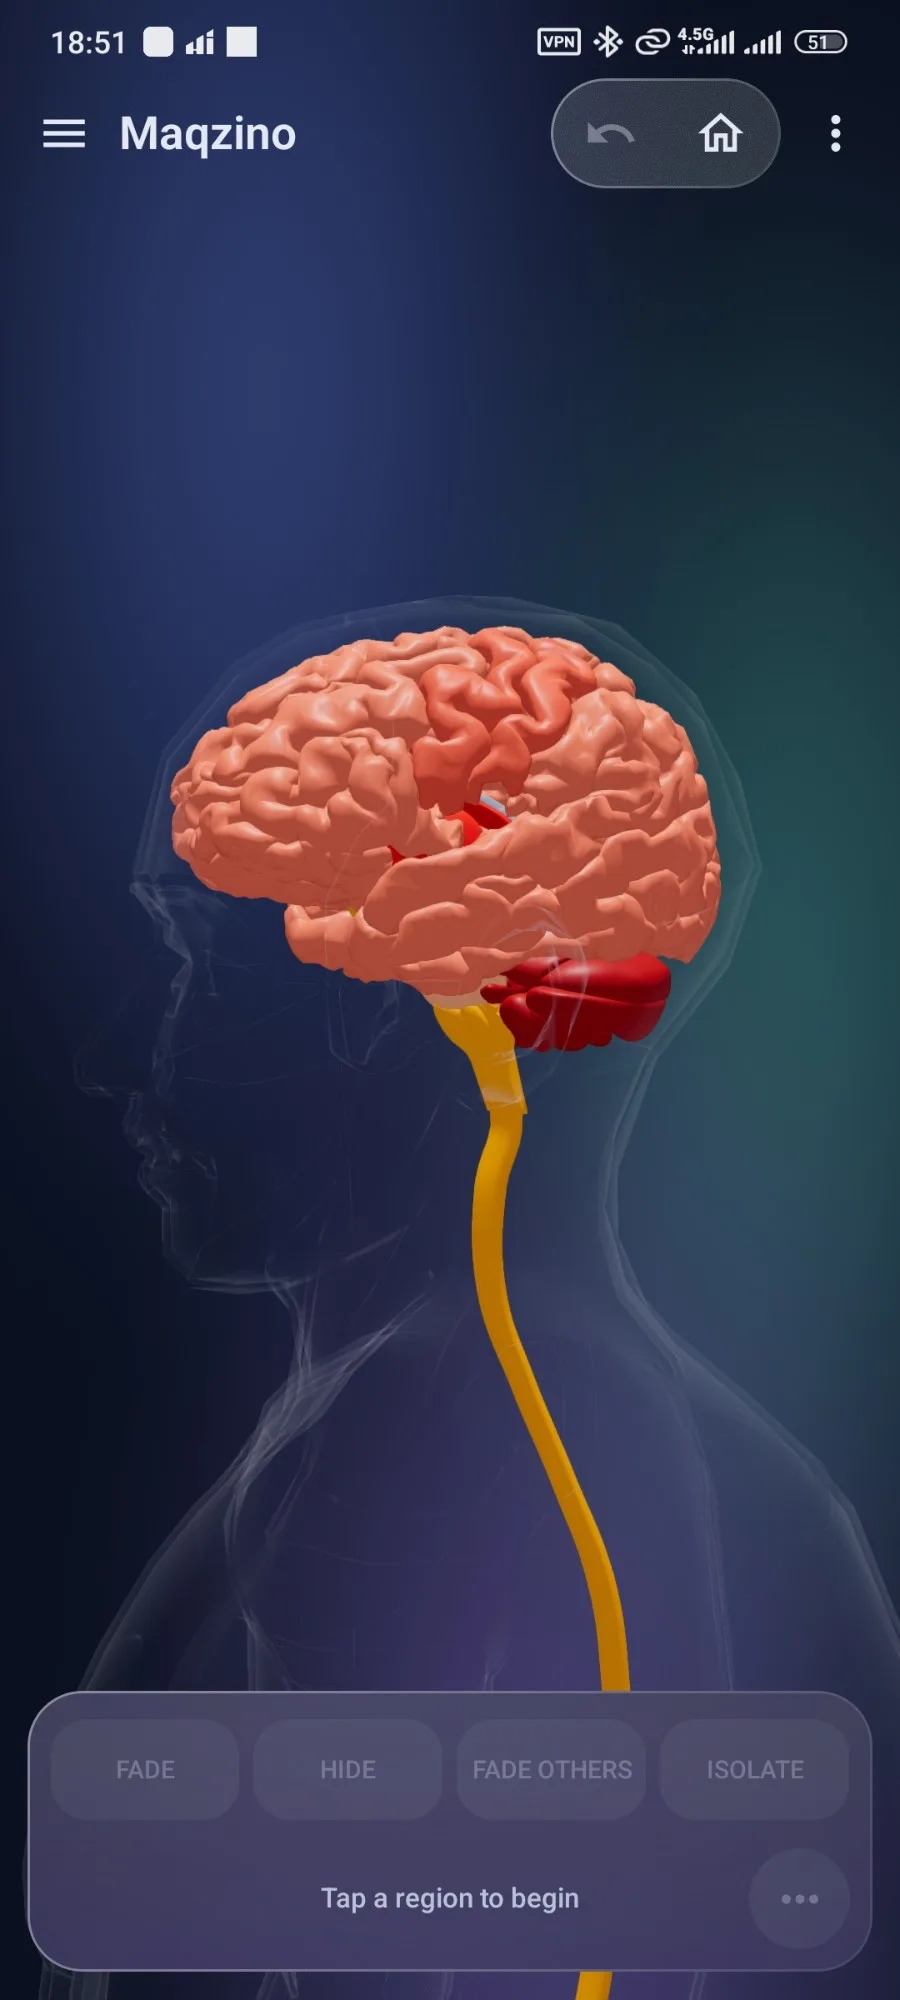
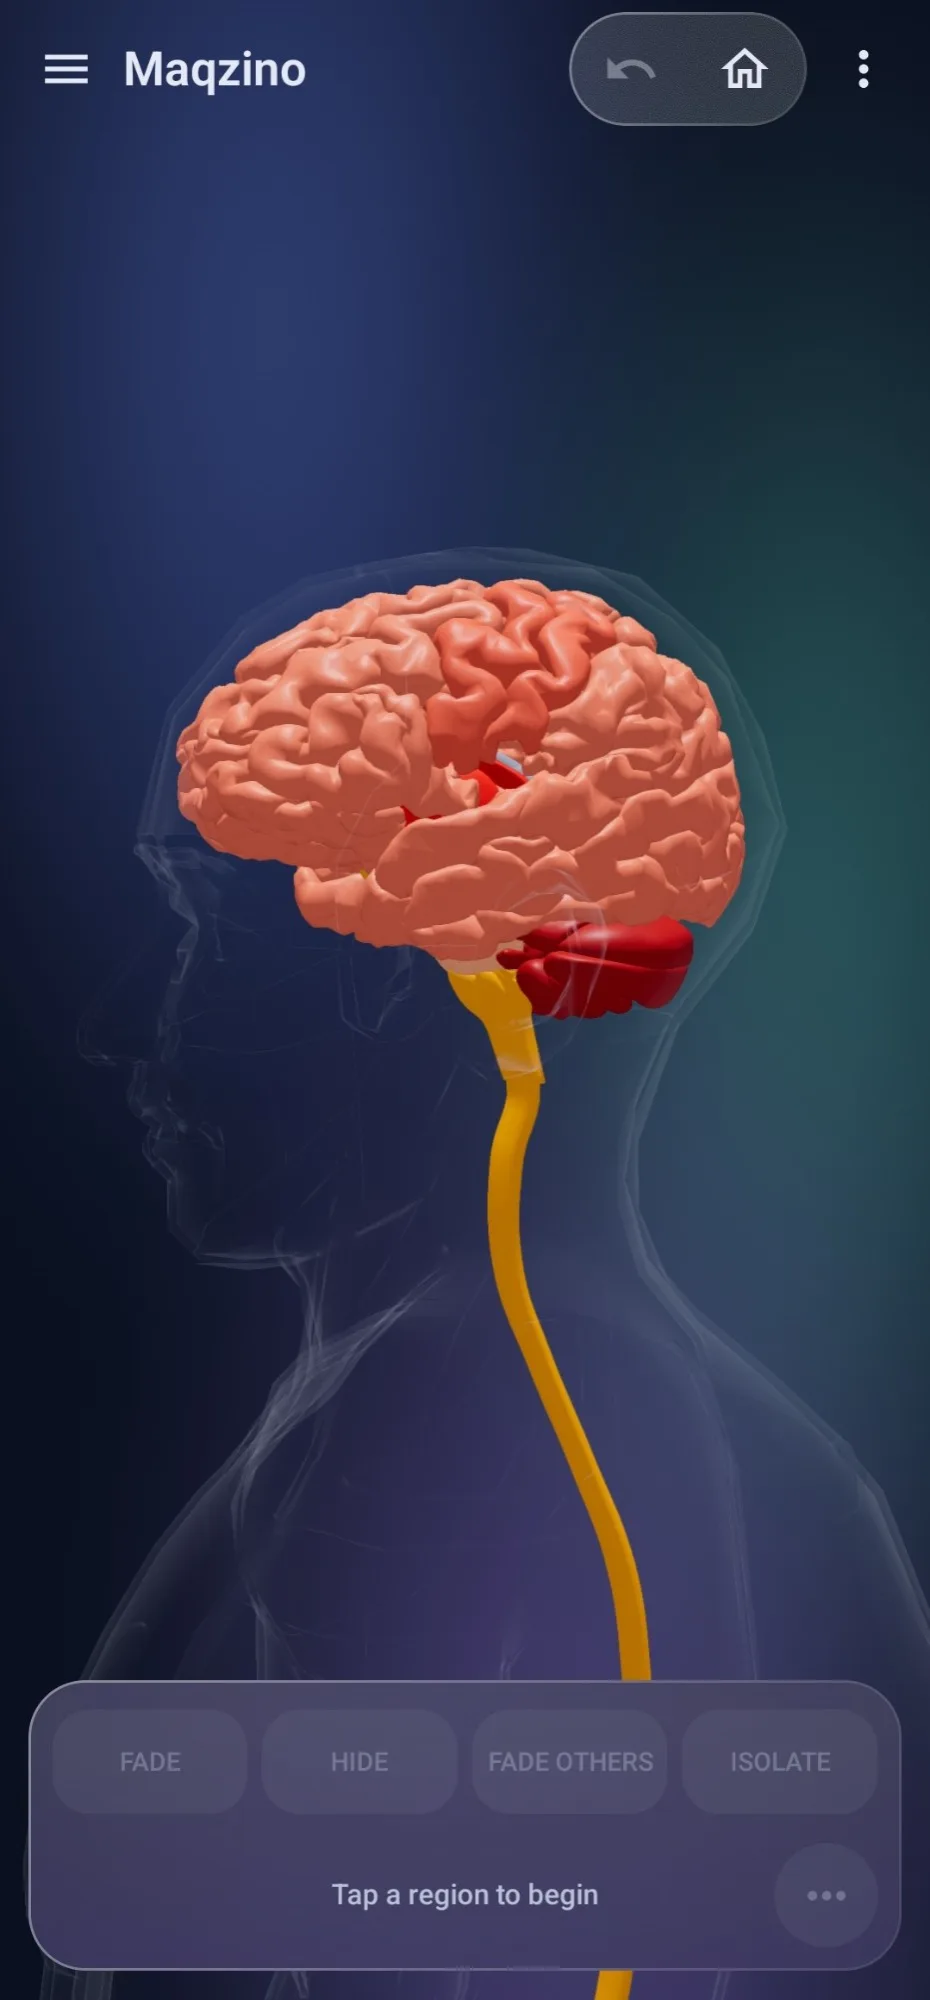
Replace the app screens with the status-bar-free crops
The old set carried the phone's own status bar — clock, VPN badge,
signal, battery — which showed through inside the mockup phone on the
home page and read as a screenshot of a screenshot.

The new files arrived in a different order from the gallery, so each one
was matched to the slot its caption already describes rather than to the
order it was sent. Their widths vary between 926 and 933 pixels from the
manual crop; all are normalised to 930 so the gallery and the phone frame
keep one ratio, which stretches the widest by 0.4 per cent. The frame's
aspect ratio follows to 93:200.

Ten screens, 691 KB.

diff --git a/components/Gallery.tsx b/components/Gallery.tsx
@@ -69,7 +69,7 @@ export function Gallery({
               className={styles.thumb}
               onClick={() => setOpen(i)}
             >
-              <img src={src} alt={captions[i]} width={900} height={2000} loading="lazy" />
+              <img src={src} alt={captions[i]} width={930} height={2000} loading="lazy" />
             </button>
             <p className={styles.caption}>{captions[i]}</p>
           </li>
@@ -82,7 +82,7 @@ export function Gallery({
           <button type="button" className={styles.backdrop} onClick={close} aria-hidden="true" tabIndex={-1} />
 
           <figure className={styles.figure}>
-            <img src={SHOTS[open]} alt={captions[open]} width={900} height={2000} />
+            <img src={SHOTS[open]} alt={captions[open]} width={930} height={2000} />
             <figcaption>{captions[open]}</figcaption>
           </figure>
 

diff --git a/components/PhoneFrame.tsx b/components/PhoneFrame.tsx
@@ -32,7 +32,7 @@ export function PhoneFrame({ alt }: { alt: string }) {
             src={src}
             /* فقط اولی alt دارد؛ بقیه تصویر تزئینیاند و تکرارشان برای صفحهخوان مزاحمت است. */
             alt={i === 0 ? alt : ""}
-            width={900}
+            width={930}
             height={2000}
             loading={i === 0 ? "eager" : "lazy"}
             className={styles.shot}

diff --git a/components/PhoneFrame.module.css b/components/PhoneFrame.module.css
@@ -3,7 +3,7 @@
   inline-size: 100%;
   margin-inline: auto;
   /* همان نسبت اسکرینشاتهای واقعی گوشی؛ وگرنه لبهٔ تصویر بریده میشود. */
-  aspect-ratio: 9 / 20;
+  aspect-ratio: 93 / 200;
   border-radius: 2.25rem;
   padding: 0.55rem;
   /* در پوستهٔ روشن، بدنه تیره میشود — بدنهٔ شیشهای روی پسزمینهٔ روشن
